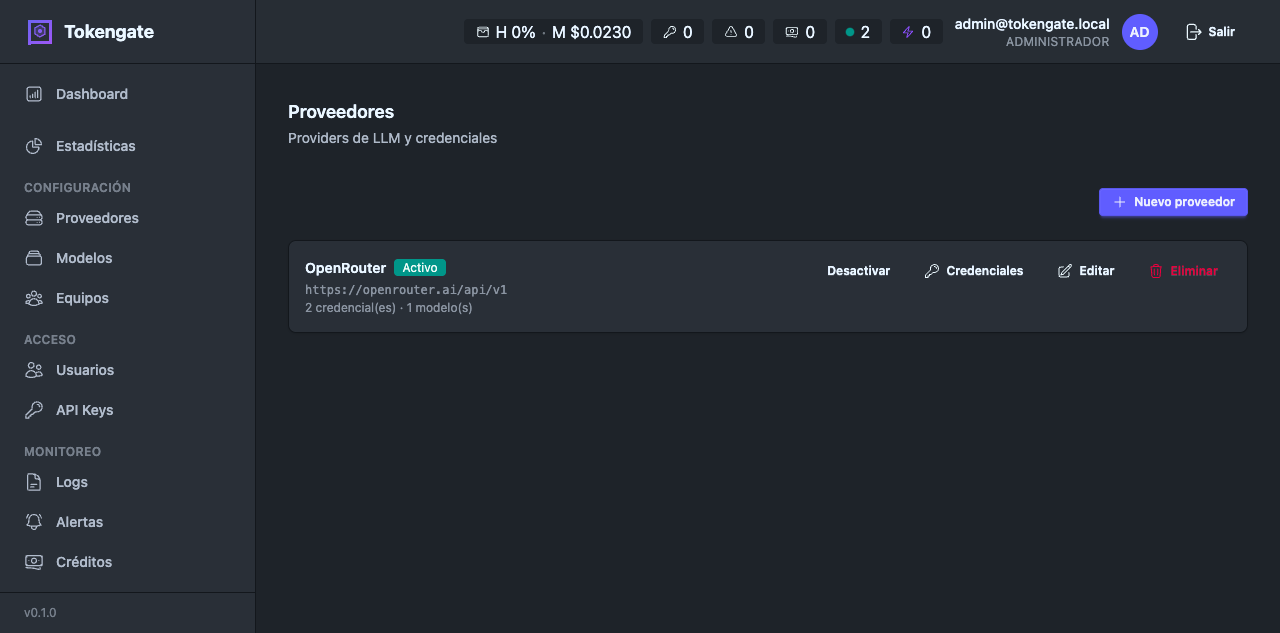
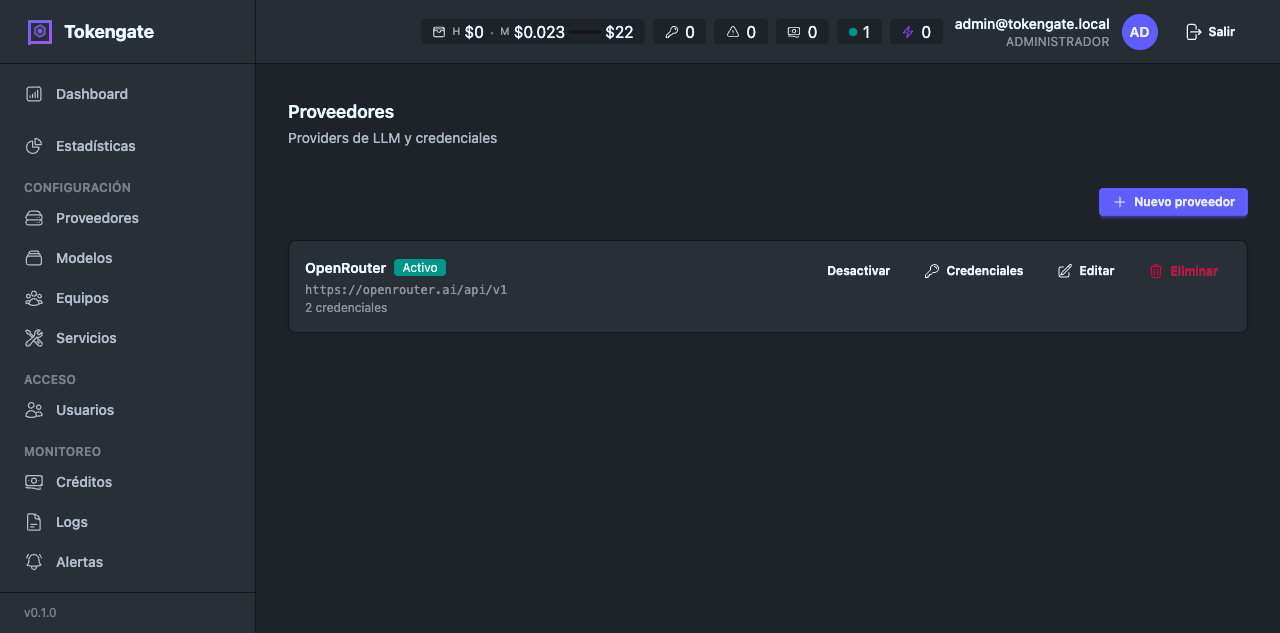
docs: update README with new screenshots and Services section
- Added Services feature documentation
- Updated all screenshots to reflect current UI
- Added login screenshot
- Updated access control table to include Services
- Added Services parameters to configurable parameters section

diff --git a/README.md b/README.md
@@ -7,19 +7,23 @@
 <table>
   <tr>
     <td><img src="docs/screenshots/dashboard.png" alt="Dashboard"></td>
-    <td><img src="docs/screenshots/logs.png" alt="Logs en vivo"></td>
-  </tr>
-  <tr>
     <td><img src="docs/screenshots/stats.png" alt="Estadísticas"></td>
-    <td><img src="docs/screenshots/providers.png" alt="Proveedores"></td>
   </tr>
   <tr>
-    <td><img src="docs/screenshots/models.png" alt="Modelos"></td>
+    <td><img src="docs/screenshots/logs.png" alt="Logs en vivo"></td>
     <td><img src="docs/screenshots/teams.png" alt="Equipos"></td>
   </tr>
   <tr>
+    <td><img src="docs/screenshots/services.png" alt="Servicios"></td>
+    <td><img src="docs/screenshots/models.png" alt="Modelos"></td>
+  </tr>
+  <tr>
+    <td><img src="docs/screenshots/providers.png" alt="Proveedores"></td>
     <td><img src="docs/screenshots/credits.png" alt="Créditos"></td>
+  </tr>
+  <tr>
     <td><img src="docs/screenshots/alerts.png" alt="Alertas"></td>
+    <td></td>
   </tr>
 </table>
 
@@ -44,6 +48,7 @@
 - **Prioridad + sticky routing** — la misma API key se pega al mismo proveedor (preserva prompt caches) con TTL de 60 min
 - **Circuit breaker** por credencial — abre tras 15 fallos consecutivos (configurable), semi-abre en 30s (20s si fue rate limit)
 - **Fallback** automático ante errores (hasta 3 intentos)
+- **Fallback por concurrencia** — si un proveedor está saturado, intenta el siguiente automáticamente
 - **Reglas de reroute** por longitud de contexto o presencia de imágenes
 
 ### Manejo de errores
@@ -71,7 +76,7 @@ TokenGate clasifica cada error del proveedor y decide si reintentar, desactivar 
 **Errores que se le entregan al cliente:**
 
 | HTTP | Code | Cuándo |
-|------|------|-------|
+|------|------|--------|
 | 400 | `invalid_request` | Payload malformado |
 | 402 | `budget_exceeded` | El gasto mensual del usuario supera su budget |
 | 404 | `model_not_found` | Modelo no existe o sin acceso |
@@ -93,7 +98,8 @@ Cada request registra 4 dimensiones: **costo de mercado** (estimado), **costo de
 ### Multi-tenant
 
 - **Equipos → Miembros → API keys** con roles `admin`, `manager`, `user`
-- **Alias de modelos** — mapea `gpt-4` → proveedor+modelo real, con grants por equipo y miembro
+- **Servicios** — API keys sin usuario asociado, con límites directos (budget, concurrencia, RPM)
+- **Alias de modelos** — mapea `gpt-4` → proveedor+modelo real, con grants por equipo, miembro y servicio
 - **Budget mensual por usuario** — cada equipo define un tope mensual por persona; los miembros pueden tener extra budget
 - **Límites por usuario** — concurrencia y RPM configurables por equipo + extra por miembro
 - **Bloqueo automático** al superar límites (402 sin tocar al proveedor)
@@ -120,6 +126,7 @@ Cada request registra 4 dimensiones: **costo de mercado** (estimado), **costo de
 |------|-------|---------|------|
 | Dashboard, Stats, Logs | ✅ | ✅ (sus equipos) | ✅ (suyo) |
 | Equipos y miembros | ✅ | ✅ (sus equipos) | ❌ |
+| Servicios | ✅ | ❌ | ❌ |
 | Proveedores, Modelos | ✅ | ❌ | ❌ |
 | Usuarios, API Keys | ✅ | ❌ | ❌ |
 | Créditos, Alertas | ✅ | ❌ | ❌ |
@@ -145,7 +152,7 @@ TokenGate tiene 3 niveles de configuración:
 | `max_concurrent` | Requests simultáneos máximos a esta credencial |
 | `receive_timeout_ms` | Timeout de respuesta del proveedor (default 180s) |
 
-**3. Por equipo y miembro** (Dashboard > Teams + Team Members) — límites que protegen al usuario:
+**3. Por equipo, miembro y servicio** — límites que protegen al usuario:
 
 | Campo | Nivel | Descripción |
 |-------|-------|-------------|
@@ -155,8 +162,11 @@ TokenGate tiene 3 niveles de configuración:
 | `extra_monthly_budget_usd` | Miembro | Extra budget mensual que se suma al del equipo |
 | `extra_concurrency` | Miembro | Extra concurrencia que se suma al del equipo |
 | `extra_rpm` | Miembro | Extra RPM que se suma al del equipo |
+| `monthly_budget_usd` | Servicio | Tope mensual del servicio |
+| `concurrency_limit` | Servicio | Concurrencia del servicio (default 5) |
+| `rpm_limit` | Servicio | RPM del servicio (default 60) |
 
-El límite efectivo del usuario siempre es `team default + member extra`.
+El límite efectivo del usuario siempre es `team default + member extra`. Los servicios tienen límites directos sin jerarquía.
 
 ## Inicio rápido
 
@@ -175,7 +185,7 @@ El server arranca en `http://localhost:4000`.
 
 ```bash
 curl http://localhost:4000/v1/chat/completions \
-  -H "Authorization: Bearer tg-..." \
+  -H "Authorization: Bearer ***" \
   -H "Content-Type: application/json" \
   -d '{"model": "gpt-4", "messages": [{"role": "user", "content": "Hola"}]}'
 ```
